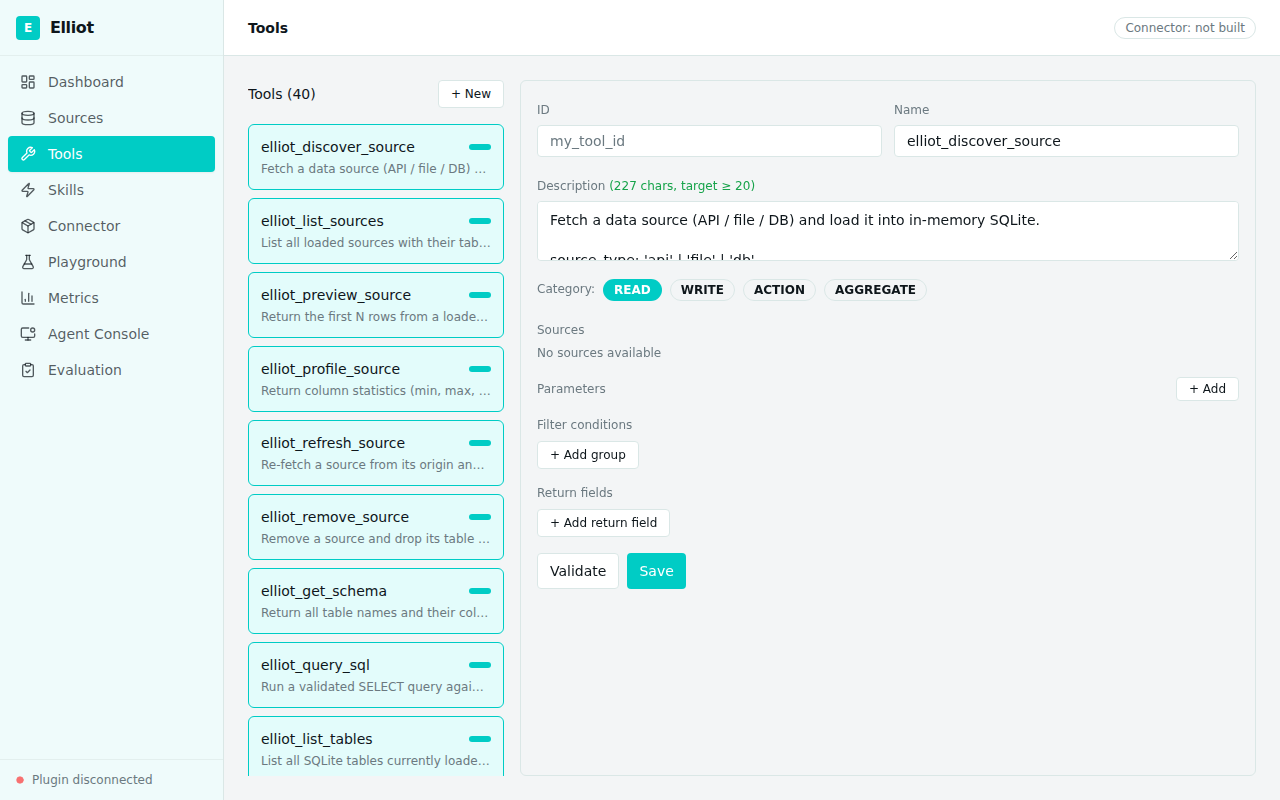
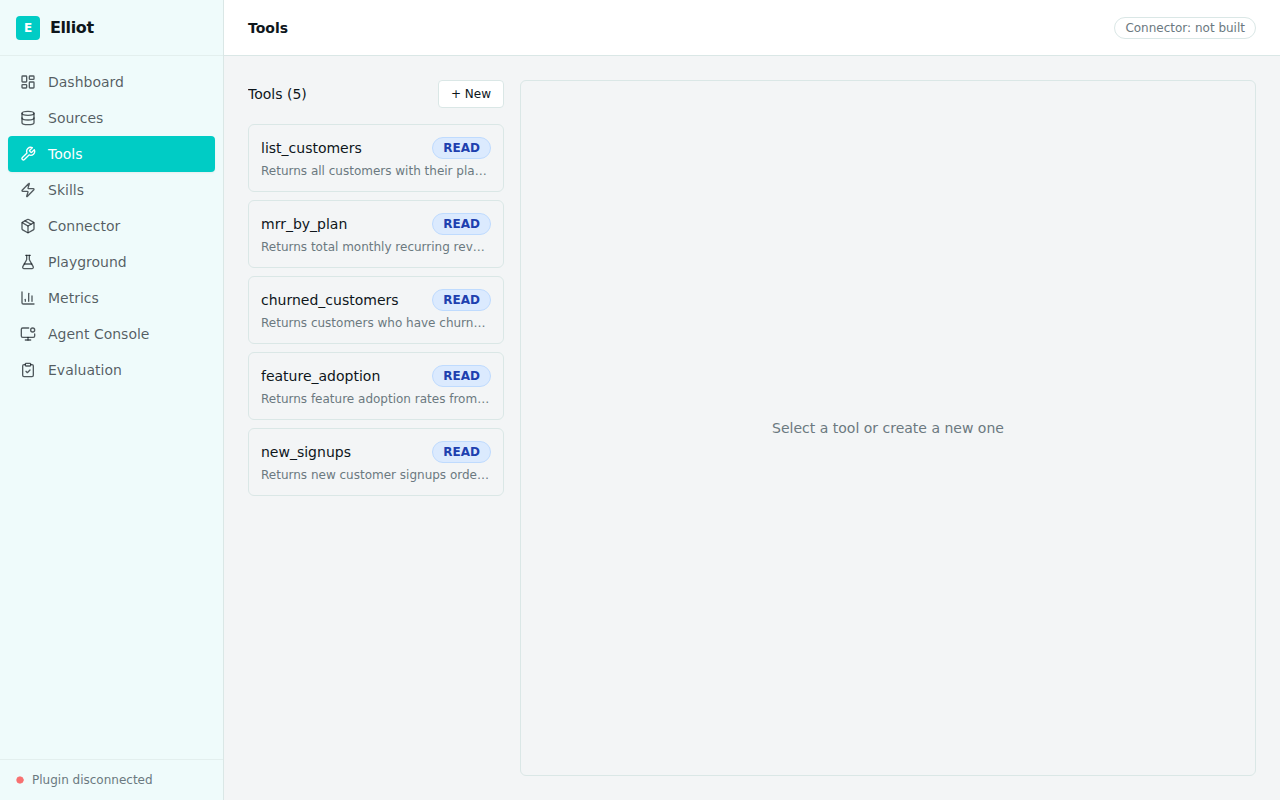
fix(studio): show user connector tools instead of platform MCP tools
The Studio's Tools page was calling client.listTools() which returned all
40 Elliot platform tools (elliot_discover_source etc.). Switch to calling
elliot_list_tools which returns session.registry.get_all() — only the tools
the user has created. Also expand elliot_list_tools to return the full
model_dump() so the ToolEditor receives all required fields (sql, source_ids,
parameters). Screenshots updated: Tools page now shows 5 connector tools.

https://claude.ai/code/session_01Mtc241ya14kfZHy4ge2Dnv

diff --git a/packages/studio/src/lib/mcp-client.ts b/packages/studio/src/lib/mcp-client.ts
@@ -70,8 +70,10 @@ async function callTool(name: string, args: Record<string, unknown>): Promise<un
 
 async function listTools(): Promise<unknown> {
   const client = await getMcpClient();
-  const result = await client.listTools();
-  return result.tools;
+  const result = await client.callTool({ name: "elliot_list_tools", arguments: {} });
+  const content = result.content as Array<{ type: string; text: string }>;
+  const parsed = JSON.parse(content[0]?.text ?? "{}") as { tools?: unknown[] };
+  return parsed.tools ?? [];
 }
 
 export { getMcpClient, callTool, listTools };

diff --git a/packages/mcp-plugin/src/elliot_mcp_plugin/tools/tool_tools.py b/packages/mcp-plugin/src/elliot_mcp_plugin/tools/tool_tools.py
@@ -75,18 +75,10 @@ def register_tool_tools(mcp: FastMCP, session: ElliotSession) -> None:
 
     @mcp.tool()
     def elliot_list_tools() -> dict:  # type: ignore[type-arg]
-        """List all defined tools with id, name, category, and description."""
+        """List all user-defined connector tools with their full definitions."""
         try:
             return {
-                "tools": [
-                    {
-                        "id": t.id,
-                        "name": t.name,
-                        "category": t.category,
-                        "description": t.description,
-                    }
-                    for t in session.registry.get_all()
-                ],
+                "tools": [t.model_dump() for t in session.registry.get_all()],
                 "count": len(session.registry.get_all()),
             }
         except Exception as exc:
